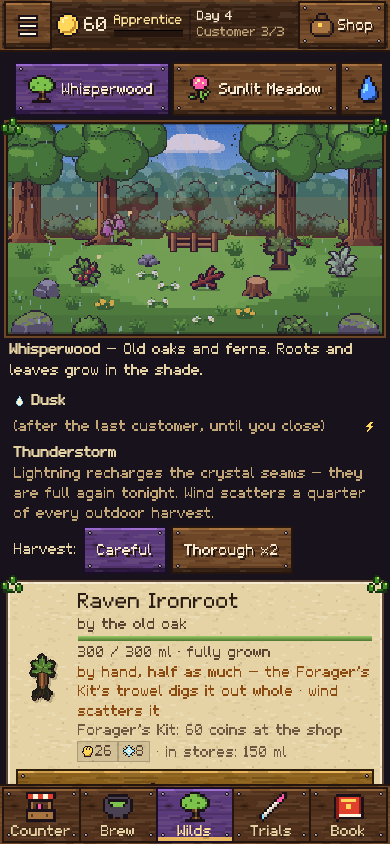
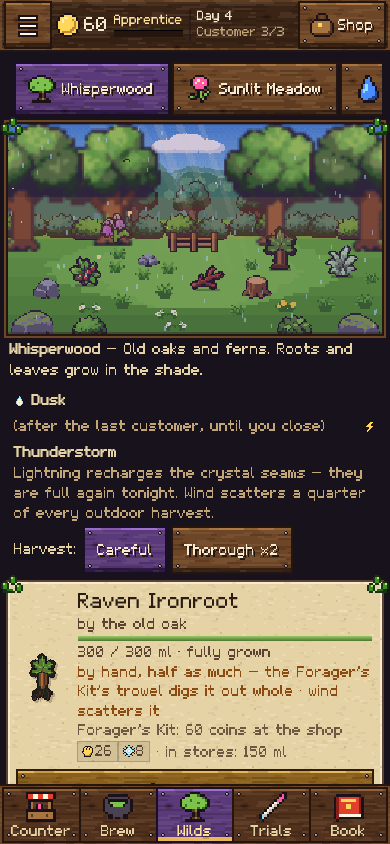
Whisperwood: the pack's oak sprites as the great foreground trees
The four oaks framing the clearing were still painted in code (bark
trunks under round blob crowns). They are now the pack's oak sprites,
reduced 3 to 1 and drawn at twice the size, so the nearest trees have
the chunkiest pixels and their crowns run off the top of the frame. The
near oaks are lifted slightly off black (they stand in the clearing's
light), snapped to the scene palette, and moss streaks on the trunks
take the bark's colour.

Claude-Session: https://claude.ai/code/session_01GGTi3tG46v2dovbRMuuNuV

diff --git a/dist/app.40f01105cd.js b/dist/app.40f01105cd.js
@@ -13400,47 +13400,50 @@ return { CounterView };
 // src/rendering/whisperwood-atlas.js
 const __m68 = (() => {
 const ATLAS_URL = 'assets/whisperwood/atlas.png';
-const ATLAS_SIZE = [256, 97];
+const ATLAS_SIZE = [256, 125];
 const FRAMES = {
-buttercups: [33, 86, 14, 9],
-daisies: [87, 86, 15, 7],
-emberbark_hover: [210, 41, 26, 19],
-emberbark_idle: [0, 66, 26, 19],
-flower_bush_01: [134, 66, 24, 17],
-forest_bush_01: [159, 66, 24, 17],
-forest_bush_01_far: [184, 66, 24, 17],
-glint_0: [113, 86, 3, 3],
-glint_1: [103, 86, 4, 4],
-glint_2: [117, 86, 3, 3],
-glint_3: [108, 86, 4, 4],
-grass_tuft_01: [0, 86, 12, 11],
-grass_tuft_02: [64, 86, 10, 8],
-grass_tuft_03: [75, 86, 11, 8],
-gray_boulder: [231, 66, 19, 14],
-ironroot_card: [0, 0, 23, 40],
-ironroot_depleted: [116, 0, 25, 32],
-ironroot_hover: [142, 0, 25, 32],
-ironroot_idle: [168, 0, 25, 32],
-mandrake_hover: [52, 41, 28, 23],
-mandrake_idle: [81, 41, 28, 23],
-mossy_boulder: [77, 66, 29, 18],
-mossy_log: [107, 66, 26, 18],
-nightshade_hover: [110, 41, 24, 23],
-nightshade_idle: [135, 41, 24, 23],
-oak_round_01_far: [59, 0, 29, 33],
-oak_round_02_far: [89, 0, 26, 33],
-oak_wide_03_far: [24, 0, 34, 34],
-owlberry_hover: [160, 41, 24, 22],
-owlberry_idle: [185, 41, 24, 22],
-picked: [13, 86, 19, 11],
-silverleaf_depleted: [194, 0, 25, 24],
-silverleaf_harvesting: [220, 0, 25, 24],
-silverleaf_hover: [0, 41, 25, 24],
-silverleaf_idle: [26, 41, 25, 24],
-stone_cluster: [48, 86, 15, 9],
-tree_stump: [209, 66, 21, 16],
-witchear_hover: [27, 66, 24, 19],
-witchear_idle: [52, 66, 24, 19],
+buttercups: [177, 103, 14, 9],
+daisies: [231, 103, 15, 7],
+emberbark_hover: [100, 79, 26, 19],
+emberbark_idle: [127, 79, 26, 19],
+flower_bush_01: [27, 103, 24, 17],
+forest_bush_01: [52, 103, 24, 17],
+forest_bush_01_far: [77, 103, 24, 17],
+glint_0: [0, 122, 3, 3],
+glint_1: [247, 103, 4, 4],
+glint_2: [4, 122, 3, 3],
+glint_3: [252, 103, 4, 4],
+grass_tuft_01: [144, 103, 12, 11],
+grass_tuft_02: [208, 103, 10, 8],
+grass_tuft_03: [219, 103, 11, 8],
+gray_boulder: [124, 103, 19, 14],
+ironroot_card: [120, 0, 23, 40],
+ironroot_depleted: [0, 46, 25, 32],
+ironroot_hover: [26, 46, 25, 32],
+ironroot_idle: [52, 46, 25, 32],
+mandrake_hover: [182, 46, 28, 23],
+mandrake_idle: [211, 46, 28, 23],
+mossy_boulder: [204, 79, 29, 18],
+mossy_log: [0, 103, 26, 18],
+nightshade_hover: [0, 79, 24, 23],
+nightshade_idle: [25, 79, 24, 23],
+oak_round_01_far: [179, 0, 29, 33],
+oak_round_01_near: [45, 0, 38, 43],
+oak_round_02_far: [209, 0, 26, 33],
+oak_round_02_near: [84, 0, 35, 43],
+oak_wide_03_far: [144, 0, 34, 34],
+oak_wide_03_near: [0, 0, 44, 45],
+owlberry_hover: [50, 79, 24, 22],
+owlberry_idle: [75, 79, 24, 22],
+picked: [157, 103, 19, 11],
+silverleaf_depleted: [78, 46, 25, 24],
+silverleaf_harvesting: [104, 46, 25, 24],
+silverleaf_hover: [130, 46, 25, 24],
+silverleaf_idle: [156, 46, 25, 24],
+stone_cluster: [192, 103, 15, 9],
+tree_stump: [102, 103, 21, 16],
+witchear_hover: [154, 79, 24, 19],
+witchear_idle: [179, 79, 24, 19],
 };
 return { ATLAS_URL, ATLAS_SIZE, FRAMES };
 })();
@@ -13580,14 +13583,14 @@ if (cHi) disc(ctx, x - Math.round(r / 3), cy - Math.round(r / 2), Math.max(1, Ma
 R(ctx, x, cy, Math.max(2, r * 2 / 3), y + 30 - cy, c);
 }
 }
-function canopy(ctx, rng, cx, cy, r, pal, tidy = false) {
+function canopy(ctx, rng, cx, cy, r, pal) {
 const blobs = [];
 for (let i = 0; i < 9; i++) blobs.push([cx + rng.range(-r * 0.8, r * 0.8), cy + rng.range(-r * 0.5, r * 0.45), rng.range(r * 0.4, r * 0.62)]);
 for (const [x, y, br] of blobs) disc(ctx, Math.round(x), Math.round(y), Math.round(br) + 1, Math.round(br * 0.85) + 1, pal[0]);
 for (const [x, y, br] of blobs) disc(ctx, Math.round(x), Math.round(y), Math.round(br), Math.round(br * 0.85), pal[1]);
 for (const [x, y, br] of blobs) disc(ctx, Math.round(x - br * 0.15), Math.round(y - br * 0.2), Math.round(br * 0.75), Math.round(br * 0.62), pal[2]);
 for (const [x, y, br] of blobs) if (x < cx + r * 0.3 && y < cy + r * 0.1) disc(ctx, Math.round(x - br * 0.3), Math.round(y - br * 0.35), Math.round(br * 0.42), Math.round(br * 0.34), pal[3]);
-for (let i = 0; i < r * 1.2; i++) { const x = cx + rng.range(-r, r * 0.5), y = cy + rng.range(-r * 0.7, r * 0.1); if (!tidy) R(ctx, x, y, 1, 1, pal[4]); }
+for (let i = 0; i < r * 1.2; i++) R(ctx, cx + rng.range(-r, r * 0.5), cy + rng.range(-r * 0.7, r * 0.1), 1, 1, pal[4]);
 for (let i = 0; i < r * 2; i++) {
 const a = rng.range(0, Math.PI * 2), d = r * rng.range(0.85, 1.05);
 R(ctx, cx + Math.cos(a) * d, cy + Math.sin(a) * d * 0.75, 1, 1, pal[rng.int(0, 1)]);
@@ -13826,14 +13829,10 @@ rays(ctx, rng, 2, 0.12);
 for (let i = 0; i < 3; i++) { const x0 = 100 + i * 15; for (let y = 0; y < 104; y++) R(ctx, x0 + y * 0.35, y, 6 - i, 1, `rgba(255,250,210,${(0.2 * (1 - y / 104)).toFixed(3)})`); }
 for (let x = -4, i = 0; x < W + 12; x += rng.int(18, 24), i++) drawFrame(ctx, i % 3 ? 'forest_bush_01_far' : 'forest_bush_01', x, rng.int(77, 80), 1, i % 2 === 1);
 if (free(108, 72, 146, 88)) { fence(ctx, 112, 87, 3, 14); taken.push({ x0: 108, y0: 72, x1: 146, y1: 88 }); }
-const trees = [[4, 18], [62, 12], [184, 12], [234, 18]];
-for (const [x, w] of trees) oak(ctx, rng, x, 18, 82 + rng.int(-2, 2), w, OAKBARK);
-for (const [x, w] of trees) {
-const c = x + w / 2;
-canopy(ctx, rng, c - 12, rng.int(4, 12), rng.int(22, 26), LEAF, true);
-canopy(ctx, rng, c + 14, rng.int(6, 14), rng.int(20, 24), LEAF, true);
-canopy(ctx, rng, c, rng.int(20, 26), rng.int(16, 20), LEAF, true);
-}
+drawFrame(ctx, 'oak_round_02_near', 70, 84, 2);
+drawFrame(ctx, 'oak_round_01_near', 186, 84, 2, true);
+drawFrame(ctx, 'oak_wide_03_near', 8, 88, 2);
+drawFrame(ctx, 'oak_wide_03_near', 250, 88, 2, true);
 prop('flower_bush_01', [[48, 100], [36, 96], [70, 96]]);
 prop('forest_bush_01', [[226, 98], [212, 94], [242, 102]], true);
 prop('stone_cluster', [[146, 96], [96, 98], [160, 92]]);

diff --git a/src/rendering/regions.js b/src/rendering/regions.js
@@ -91,17 +91,16 @@ function treeLine(ctx, rng, y, size, c, cHi) {
 /**
  * A leafy crown: dark mass, mid-tone clusters, lit clusters to the upper
  * left, a few highlight specks and a ragged edge of single leaves.
- * @param {string[]} pal [outline, dark, mid, light, highlight] @param {boolean} [tidy] without the specks
+ * @param {string[]} pal [outline, dark, mid, light, highlight]
  */
-function canopy(ctx, rng, cx, cy, r, pal, tidy = false) {
+function canopy(ctx, rng, cx, cy, r, pal) {
   const blobs = [];
   for (let i = 0; i < 9; i++) blobs.push([cx + rng.range(-r * 0.8, r * 0.8), cy + rng.range(-r * 0.5, r * 0.45), rng.range(r * 0.4, r * 0.62)]);
   for (const [x, y, br] of blobs) disc(ctx, Math.round(x), Math.round(y), Math.round(br) + 1, Math.round(br * 0.85) + 1, pal[0]);
   for (const [x, y, br] of blobs) disc(ctx, Math.round(x), Math.round(y), Math.round(br), Math.round(br * 0.85), pal[1]);
   for (const [x, y, br] of blobs) disc(ctx, Math.round(x - br * 0.15), Math.round(y - br * 0.2), Math.round(br * 0.75), Math.round(br * 0.62), pal[2]);
   for (const [x, y, br] of blobs) if (x < cx + r * 0.3 && y < cy + r * 0.1) disc(ctx, Math.round(x - br * 0.3), Math.round(y - br * 0.35), Math.round(br * 0.42), Math.round(br * 0.34), pal[3]);
-  // highlight specks (a tidy crown keeps only its lit clusters: no lone pixels)
-  for (let i = 0; i < r * 1.2; i++) { const x = cx + rng.range(-r, r * 0.5), y = cy + rng.range(-r * 0.7, r * 0.1); if (!tidy) R(ctx, x, y, 1, 1, pal[4]); }
+  for (let i = 0; i < r * 1.2; i++) R(ctx, cx + rng.range(-r, r * 0.5), cy + rng.range(-r * 0.7, r * 0.1), 1, 1, pal[4]);
   for (let i = 0; i < r * 2; i++) {
     const a = rng.range(0, Math.PI * 2), d = r * rng.range(0.85, 1.05);
     R(ctx, cx + Math.cos(a) * d, cy + Math.sin(a) * d * 0.75, 1, 1, pal[rng.int(0, 1)]);
@@ -375,8 +374,9 @@ function forest(ctx, rng) {
 
 /**
  * Whisperwood from the sprite atlas (rendering/whisperwood.js): the same
- * sky, haze and clearing as the procedural painting, with sprite trees,
- * shrubs, rocks, logs, a stump and wildflowers. Nothing decorative here
+ * sky and haze as the procedural painting, with sprite trees (the great
+ * oaks in front at twice the size), shrubs, rocks, logs, a stump and
+ * wildflowers. Nothing decorative here
  * looks like a gatherable — no berries, bellflowers or toadstools — so the
  * deposits drawn on top (outlined, with hover and depleted frames) are the
  * only plants that read as something to pick. Props that would sit under a
@@ -426,15 +426,12 @@ function forestSprites(ctx, rng, avoid) {
   // a hedge of shrubs closing off the clearing
   for (let x = -4, i = 0; x < W + 12; x += rng.int(18, 24), i++) drawFrame(ctx, i % 3 ? 'forest_bush_01_far' : 'forest_bush_01', x, rng.int(77, 80), 1, i % 2 === 1);
   if (free(108, 72, 146, 88)) { fence(ctx, 112, 87, 3, 14); taken.push({ x0: 108, y0: 72, x1: 146, y1: 88 }); }
-  // the great oaks framing the scene, canopies meeting overhead
-  const trees = [[4, 18], [62, 12], [184, 12], [234, 18]];
-  for (const [x, w] of trees) oak(ctx, rng, x, 18, 82 + rng.int(-2, 2), w, OAKBARK);
-  for (const [x, w] of trees) {
-    const c = x + w / 2;
-    canopy(ctx, rng, c - 12, rng.int(4, 12), rng.int(22, 26), LEAF, true);
-    canopy(ctx, rng, c + 14, rng.int(6, 14), rng.int(20, 24), LEAF, true);
-    canopy(ctx, rng, c, rng.int(20, 26), rng.int(16, 20), LEAF, true);
-  }
+  // the great oaks framing the scene at twice the size (the nearest, chunkiest
+  // pixels), crowns running off the top of the frame; the inner pair first
+  drawFrame(ctx, 'oak_round_02_near', 70, 84, 2);
+  drawFrame(ctx, 'oak_round_01_near', 186, 84, 2, true);
+  drawFrame(ctx, 'oak_wide_03_near', 8, 88, 2);
+  drawFrame(ctx, 'oak_wide_03_near', 250, 88, 2, true);
   // shrubs, rocks, a stump and a log around the clearing
   prop('flower_bush_01', [[48, 100], [36, 96], [70, 96]]);
   prop('forest_bush_01', [[226, 98], [212, 94], [242, 102]], true);

diff --git a/src/rendering/whisperwood-atlas.js b/src/rendering/whisperwood-atlas.js
@@ -2,47 +2,50 @@
 // Frame rectangles [x, y, w, h] in assets/whisperwood/atlas.png (art pixels).
 
 export const ATLAS_URL = 'assets/whisperwood/atlas.png';
-export const ATLAS_SIZE = [256, 97];
+export const ATLAS_SIZE = [256, 125];
 
 /** @type {Record<string, [number, number, number, number]>} */
 export const FRAMES = {
-  buttercups: [33, 86, 14, 9],
-  daisies: [87, 86, 15, 7],
-  emberbark_hover: [210, 41, 26, 19],
-  emberbark_idle: [0, 66, 26, 19],
-  flower_bush_01: [134, 66, 24, 17],
-  forest_bush_01: [159, 66, 24, 17],
-  forest_bush_01_far: [184, 66, 24, 17],
-  glint_0: [113, 86, 3, 3],
-  glint_1: [103, 86, 4, 4],
-  glint_2: [117, 86, 3, 3],
-  glint_3: [108, 86, 4, 4],
-  grass_tuft_01: [0, 86, 12, 11],
-  grass_tuft_02: [64, 86, 10, 8],
-  grass_tuft_03: [75, 86, 11, 8],
-  gray_boulder: [231, 66, 19, 14],
-  ironroot_card: [0, 0, 23, 40],
-  ironroot_depleted: [116, 0, 25, 32],
-  ironroot_hover: [142, 0, 25, 32],
-  ironroot_idle: [168, 0, 25, 32],
-  mandrake_hover: [52, 41, 28, 23],
-  mandrake_idle: [81, 41, 28, 23],
-  mossy_boulder: [77, 66, 29, 18],
-  mossy_log: [107, 66, 26, 18],
-  nightshade_hover: [110, 41, 24, 23],
-  nightshade_idle: [135, 41, 24, 23],
-  oak_round_01_far: [59, 0, 29, 33],
-  oak_round_02_far: [89, 0, 26, 33],
-  oak_wide_03_far: [24, 0, 34, 34],
-  owlberry_hover: [160, 41, 24, 22],
-  owlberry_idle: [185, 41, 24, 22],
-  picked: [13, 86, 19, 11],
-  silverleaf_depleted: [194, 0, 25, 24],
-  silverleaf_harvesting: [220, 0, 25, 24],
-  silverleaf_hover: [0, 41, 25, 24],
-  silverleaf_idle: [26, 41, 25, 24],
-  stone_cluster: [48, 86, 15, 9],
-  tree_stump: [209, 66, 21, 16],
-  witchear_hover: [27, 66, 24, 19],
-  witchear_idle: [52, 66, 24, 19],
+  buttercups: [177, 103, 14, 9],
+  daisies: [231, 103, 15, 7],
+  emberbark_hover: [100, 79, 26, 19],
+  emberbark_idle: [127, 79, 26, 19],
+  flower_bush_01: [27, 103, 24, 17],
+  forest_bush_01: [52, 103, 24, 17],
+  forest_bush_01_far: [77, 103, 24, 17],
+  glint_0: [0, 122, 3, 3],
+  glint_1: [247, 103, 4, 4],
+  glint_2: [4, 122, 3, 3],
+  glint_3: [252, 103, 4, 4],
+  grass_tuft_01: [144, 103, 12, 11],
+  grass_tuft_02: [208, 103, 10, 8],
+  grass_tuft_03: [219, 103, 11, 8],
+  gray_boulder: [124, 103, 19, 14],
+  ironroot_card: [120, 0, 23, 40],
+  ironroot_depleted: [0, 46, 25, 32],
+  ironroot_hover: [26, 46, 25, 32],
+  ironroot_idle: [52, 46, 25, 32],
+  mandrake_hover: [182, 46, 28, 23],
+  mandrake_idle: [211, 46, 28, 23],
+  mossy_boulder: [204, 79, 29, 18],
+  mossy_log: [0, 103, 26, 18],
+  nightshade_hover: [0, 79, 24, 23],
+  nightshade_idle: [25, 79, 24, 23],
+  oak_round_01_far: [179, 0, 29, 33],
+  oak_round_01_near: [45, 0, 38, 43],
+  oak_round_02_far: [209, 0, 26, 33],
+  oak_round_02_near: [84, 0, 35, 43],
+  oak_wide_03_far: [144, 0, 34, 34],
+  oak_wide_03_near: [0, 0, 44, 45],
+  owlberry_hover: [50, 79, 24, 22],
+  owlberry_idle: [75, 79, 24, 22],
+  picked: [157, 103, 19, 11],
+  silverleaf_depleted: [78, 46, 25, 24],
+  silverleaf_harvesting: [104, 46, 25, 24],
+  silverleaf_hover: [130, 46, 25, 24],
+  silverleaf_idle: [156, 46, 25, 24],
+  stone_cluster: [192, 103, 15, 9],
+  tree_stump: [102, 103, 21, 16],
+  witchear_hover: [154, 79, 24, 19],
+  witchear_idle: [179, 79, 24, 19],
 };

diff --git a/dist/sw.js b/dist/sw.js
@@ -1,7 +1,7 @@
 // Service worker: cache-first offline support. The build script replaces
 // the asset list and version; in development it simply caches as it goes.
-const VERSION = '2.3.0-e1e2bdfdd6';
-const ASSETS = ["./","app.05e43c78ad.js","assets/fonts/alchemist-pixel.ttf","assets/icons/icon-192.png","assets/icons/icon-512.png","assets/whisperwood/atlas.png","index.html","manifest.webmanifest","styles/main.0a7a94f9e5.css"];
+const VERSION = '2.3.0-83c47b1dd1';
+const ASSETS = ["./","app.40f01105cd.js","assets/fonts/alchemist-pixel.ttf","assets/icons/icon-192.png","assets/icons/icon-512.png","assets/whisperwood/atlas.png","index.html","manifest.webmanifest","styles/main.0a7a94f9e5.css"];
 // The origin may be shared — <owner>.github.io hosts every Pages site of an
 // account, and a branch deploy exposes this game both at the root and at
 // /dist/ — so cache names carry this worker's scope, and each worker only

diff --git a/dist/index.html b/dist/index.html
@@ -18,6 +18,6 @@
 <body>
   <div id="app"><div class="loading">Lighting the furnace…</div></div>
   <noscript><p style="color:#fff;padding:20px">The Alchemist's Shop needs JavaScript enabled.</p></noscript>
-  <script type="module" src="app.05e43c78ad.js"></script>
+  <script type="module" src="app.40f01105cd.js"></script>
 </body>
 </html>

diff --git a/scripts/make-whisperwood.py b/scripts/make-whisperwood.py
@@ -170,6 +170,21 @@ def clean(im, palette, fringe=False):
     return despeckle(im)
 
 
+def bare_trunk(im):
+    """Paint over streaks of moss on a trunk: a green pixel with bark on both sides takes the bark's colour."""
+    out = im.copy()
+    src, o = im.load(), out.load()
+    bark = lambda c: c[3] and c[0] > c[1] and c[0] > c[2]
+    green = lambda c: c[3] and c[1] > c[0] + 10 and c[1] >= c[2]
+    for y in range(im.height):
+        for x in range(1, im.width - 1):
+            for w in (1, 2):
+                if x + w < im.width and all(green(src[x + k, y]) for k in range(w)) and bark(src[x - 1, y]) and bark(src[x + w, y]):
+                    for k in range(w):
+                        o[x + k, y] = src[x - 1, y]
+    return out
+
+
 def plant(im, keep=0.68):
     """Bury the lower part of a root in a mound of soil, so it grows out of the ground."""
     h = max(1, round(im.height * keep))
@@ -255,6 +270,11 @@ def pale(h, s, v):
     return h, s, v
 
 
+def sunlit(h, s, v):
+    # the near oaks stand in the clearing's light: lift their shade off black
+    return h, s, min(1, v * 1.12 + 0.04)
+
+
 def far(h, s, v):
     # back-row trees: darker and cooler so they sit behind the clearing
     return h + 0.02, s * 0.85, v * 0.88
@@ -295,8 +315,11 @@ def build():
     S = {}
     # decorative world objects (no outline: they stay behind the gatherables)
     # (the far trees are snapped to the haze greens of the distant tree lines)
+    # the great oaks framing the clearing: a finer reduction (3 to 1) the scene
+    # draws at twice the size, so the nearest trees have the chunkiest pixels
     for n in ('oak_round_01', 'oak_round_02', 'oak_wide_03'):
         S[n + '_far'] = clean(recolour(trim(down(load('sprites/trees/' + n))), far), FAR)
+        S[n + '_near'] = bare_trunk(clean(recolour(trim(down(load('sprites/trees/' + n), f=3, colours=16)), sunlit), SCENE))
     for rel in ('bushes/forest_bush_01', 'bushes/flower_bush_01', 'rocks/mossy_boulder', 'rocks/gray_boulder',
                 'rocks/stone_cluster', 'props/tree_stump', 'props/mossy_log'):
         S[rel.split('/')[1]] = clean(trim(down(load('sprites/' + rel), colours=10)), SCENE)
